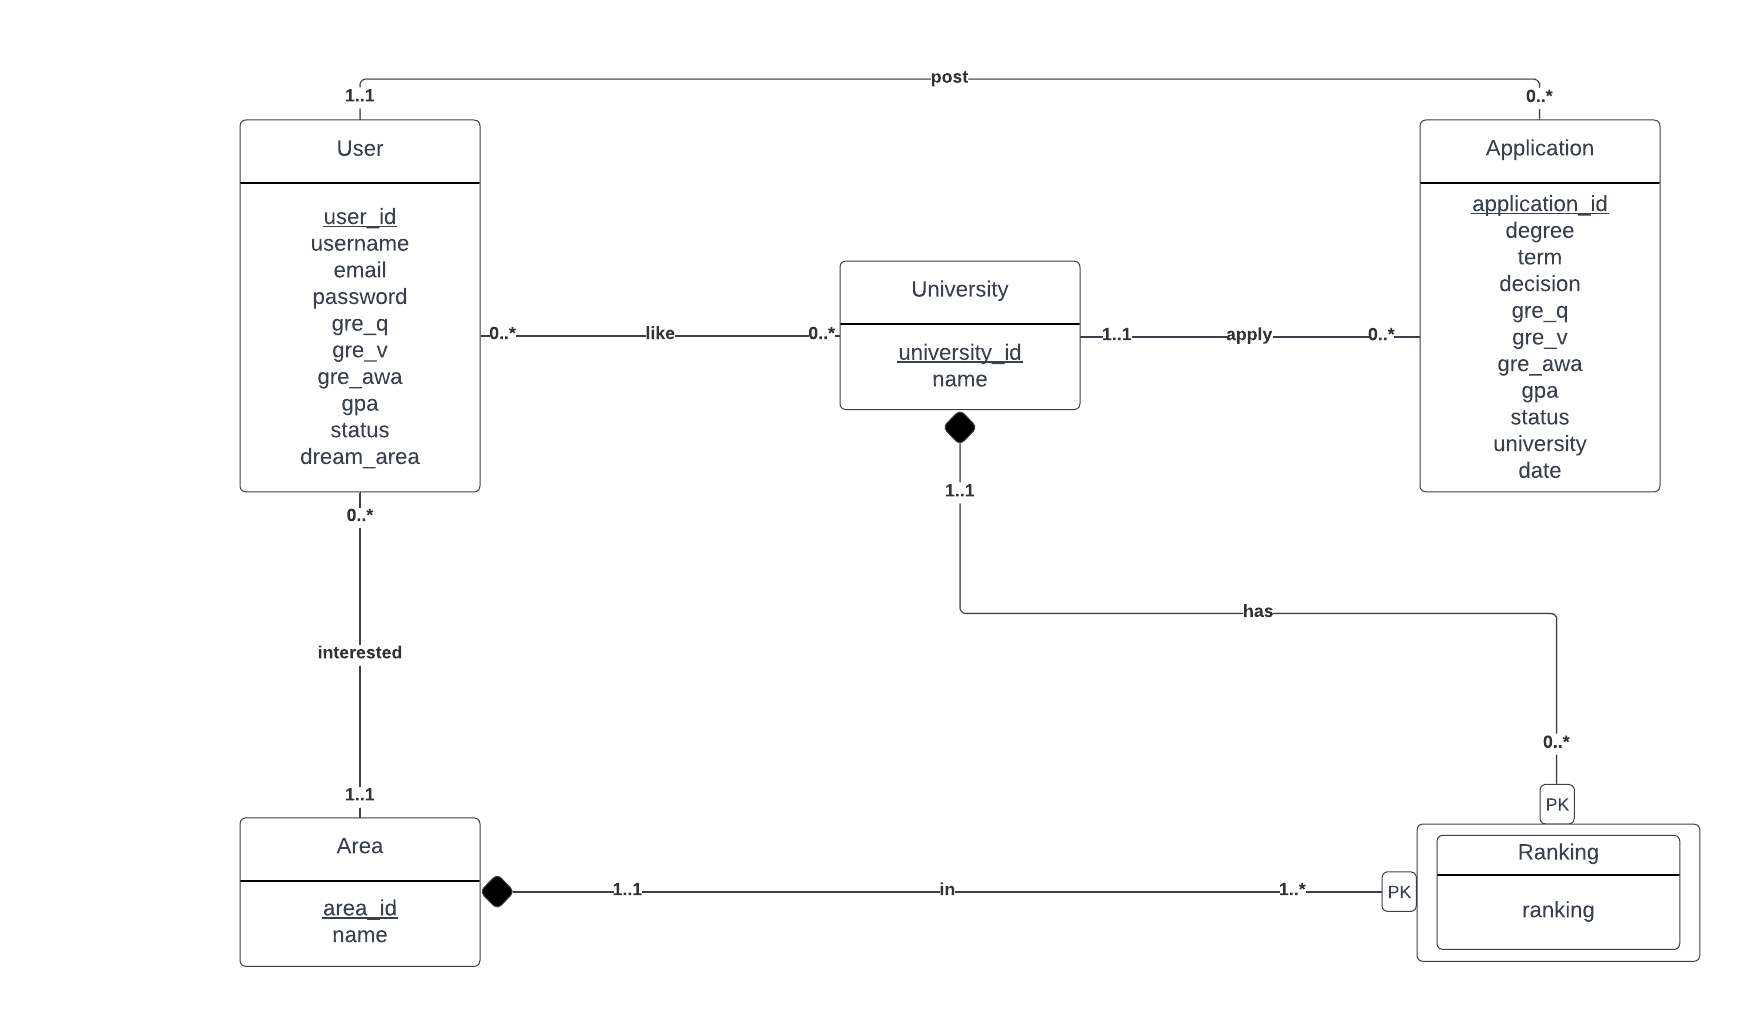
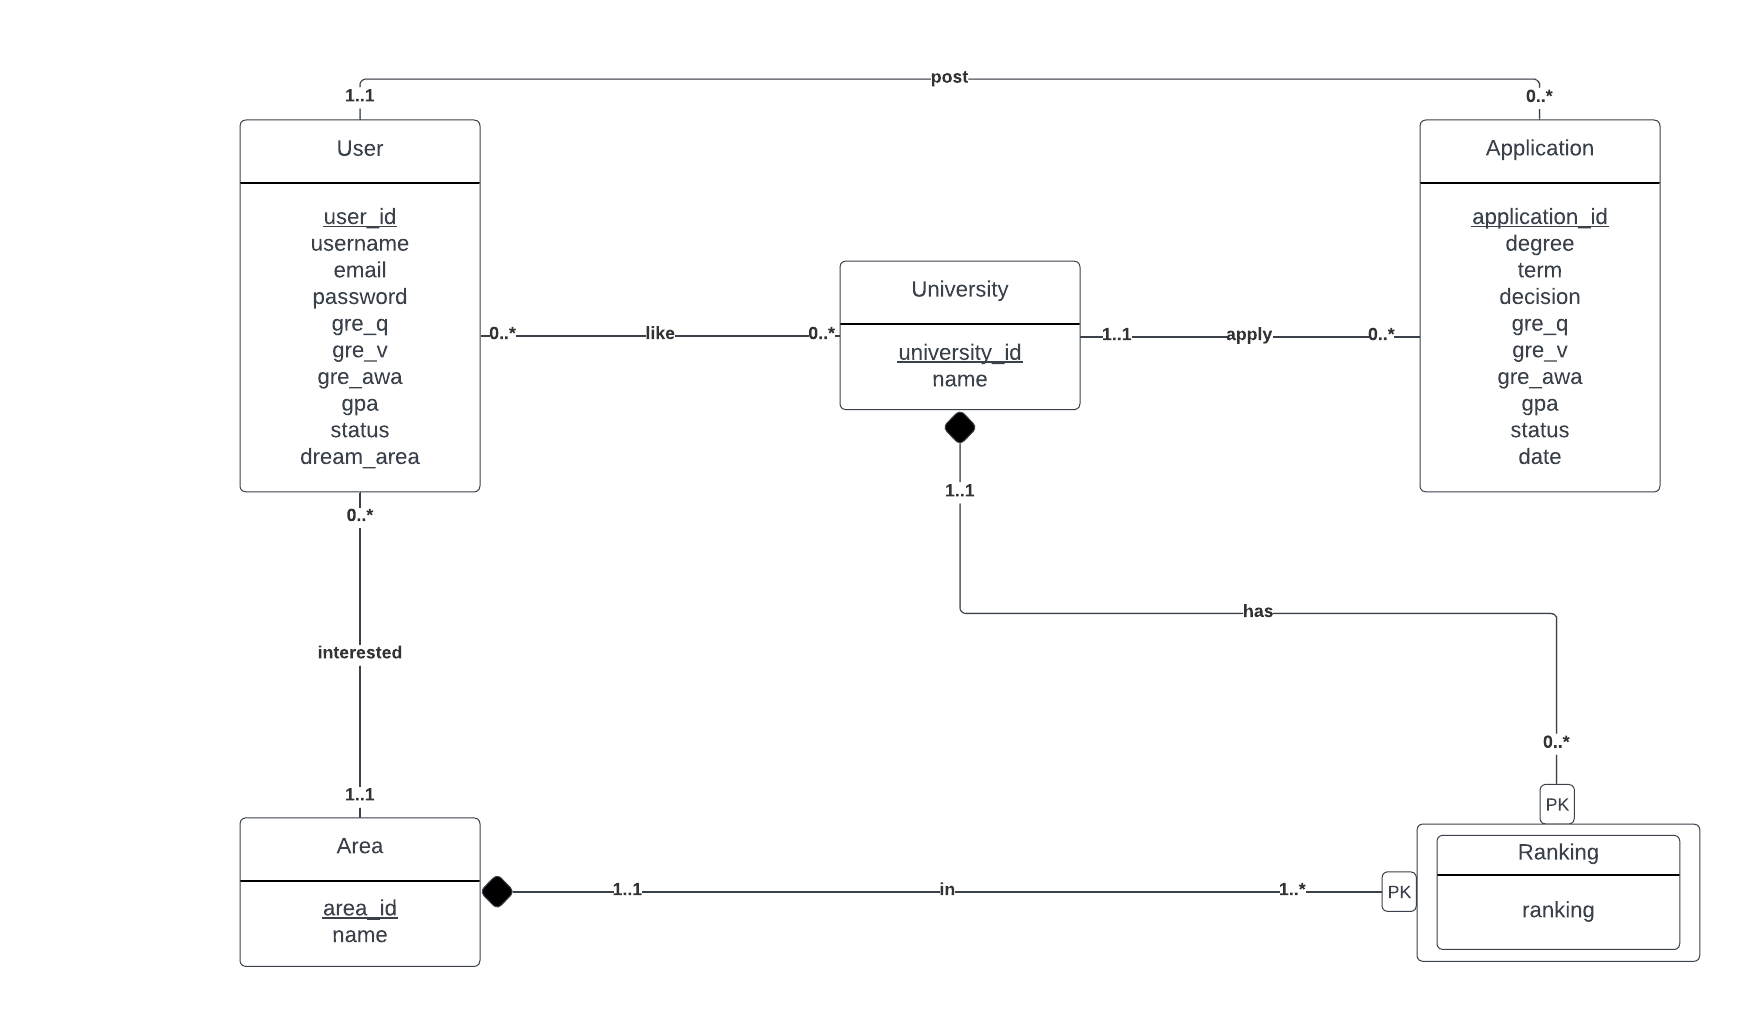
updated the UML diagram

Changed region(s): [[0.8379, 0.1842, 0.931, 0.4911]]

diff --git a/doc/2_uml_design.md b/doc/2_uml_design.md
@@ -20,7 +20,7 @@
 - It is modeled as an entity to allow for connections between rankings and users, allowing users to specify their interests in multiple areas to obtain tailored matches. Additionally, it supports tracking of university rankings in each area.
 
 ### 4. Application
-- **Description:** Captures the exisiting applications within our dataset, including an applicant's academic background (GPA, GRE, status, etc.), application outcome (decision, date), and the university they applied to.
+- **Description:** Captures the exisiting applications within our dataset, including an applicant's academic background (GPA, GRE, status, etc.), and the application outcome (decision, date).
 - **Assumption:** Every application is considered unique with an exclusive `application_id`.
 - It is modeled as an entity to support relationships with both universities and users, allowing users to post their application records. Moreover, the relationship between university and application contributes to analyzing the application statistics for each university.
 
